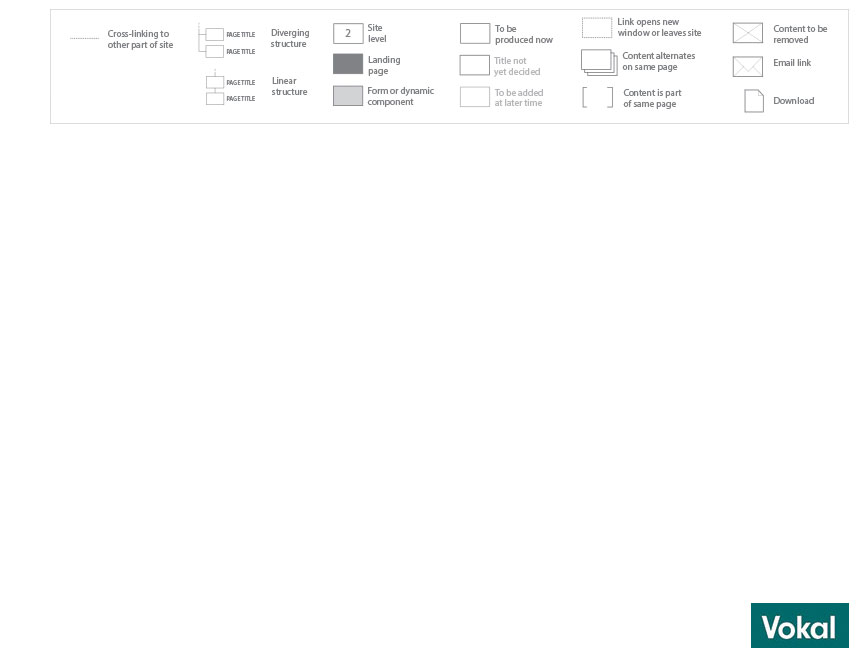
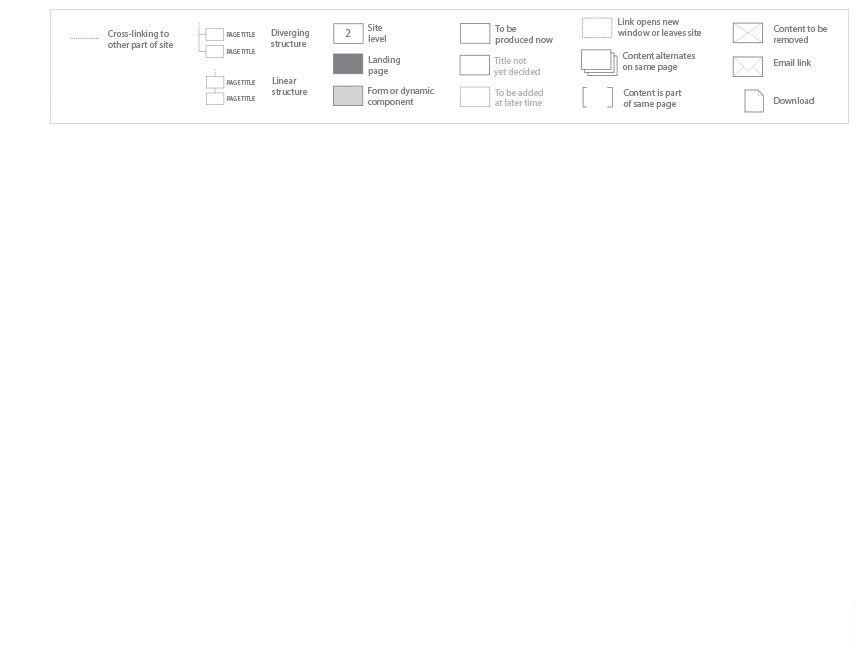
Fixed uneeded provider, edited bg image

Changed region(s): [[0.8465, 0.9091, 0.9977, 1.0]]

diff --git a/source/scripts/project/app.js b/source/scripts/project/app.js
@@ -10,16 +10,13 @@ angular.module( "vokal", [
     "vokal.services",
     "vokal.directives",
     "vokal.filters",
-    "vokal.API",
     "vokal.RouteAuth",
     "ui.bootstrap"
 ] )
 
-.config( [ "$routeProvider", "$locationProvider", "$sceDelegateProvider",
-        "APIProvider", "APIRoot", "LoginPath", "RouteAuthProvider",
+.config( [ "$routeProvider", "$locationProvider", "$sceDelegateProvider", "APIRoot", "LoginPath", "RouteAuthProvider",
 
-    function ( $routeProvider, $locationProvider, $sceDelegateProvider,
-        APIProvider, APIRoot, LoginPath, RouteAuthProvider )
+    function ( $routeProvider, $locationProvider, $sceDelegateProvider, APIRoot, LoginPath, RouteAuthProvider )
     {
         "use strict";
 
@@ -37,7 +34,6 @@ angular.module( "vokal", [
             [ "self" ]
         );
 
-        APIProvider.setRootPath( APIRoot );
         RouteAuthProvider.setRedirectPath( LoginPath );
 
     }
